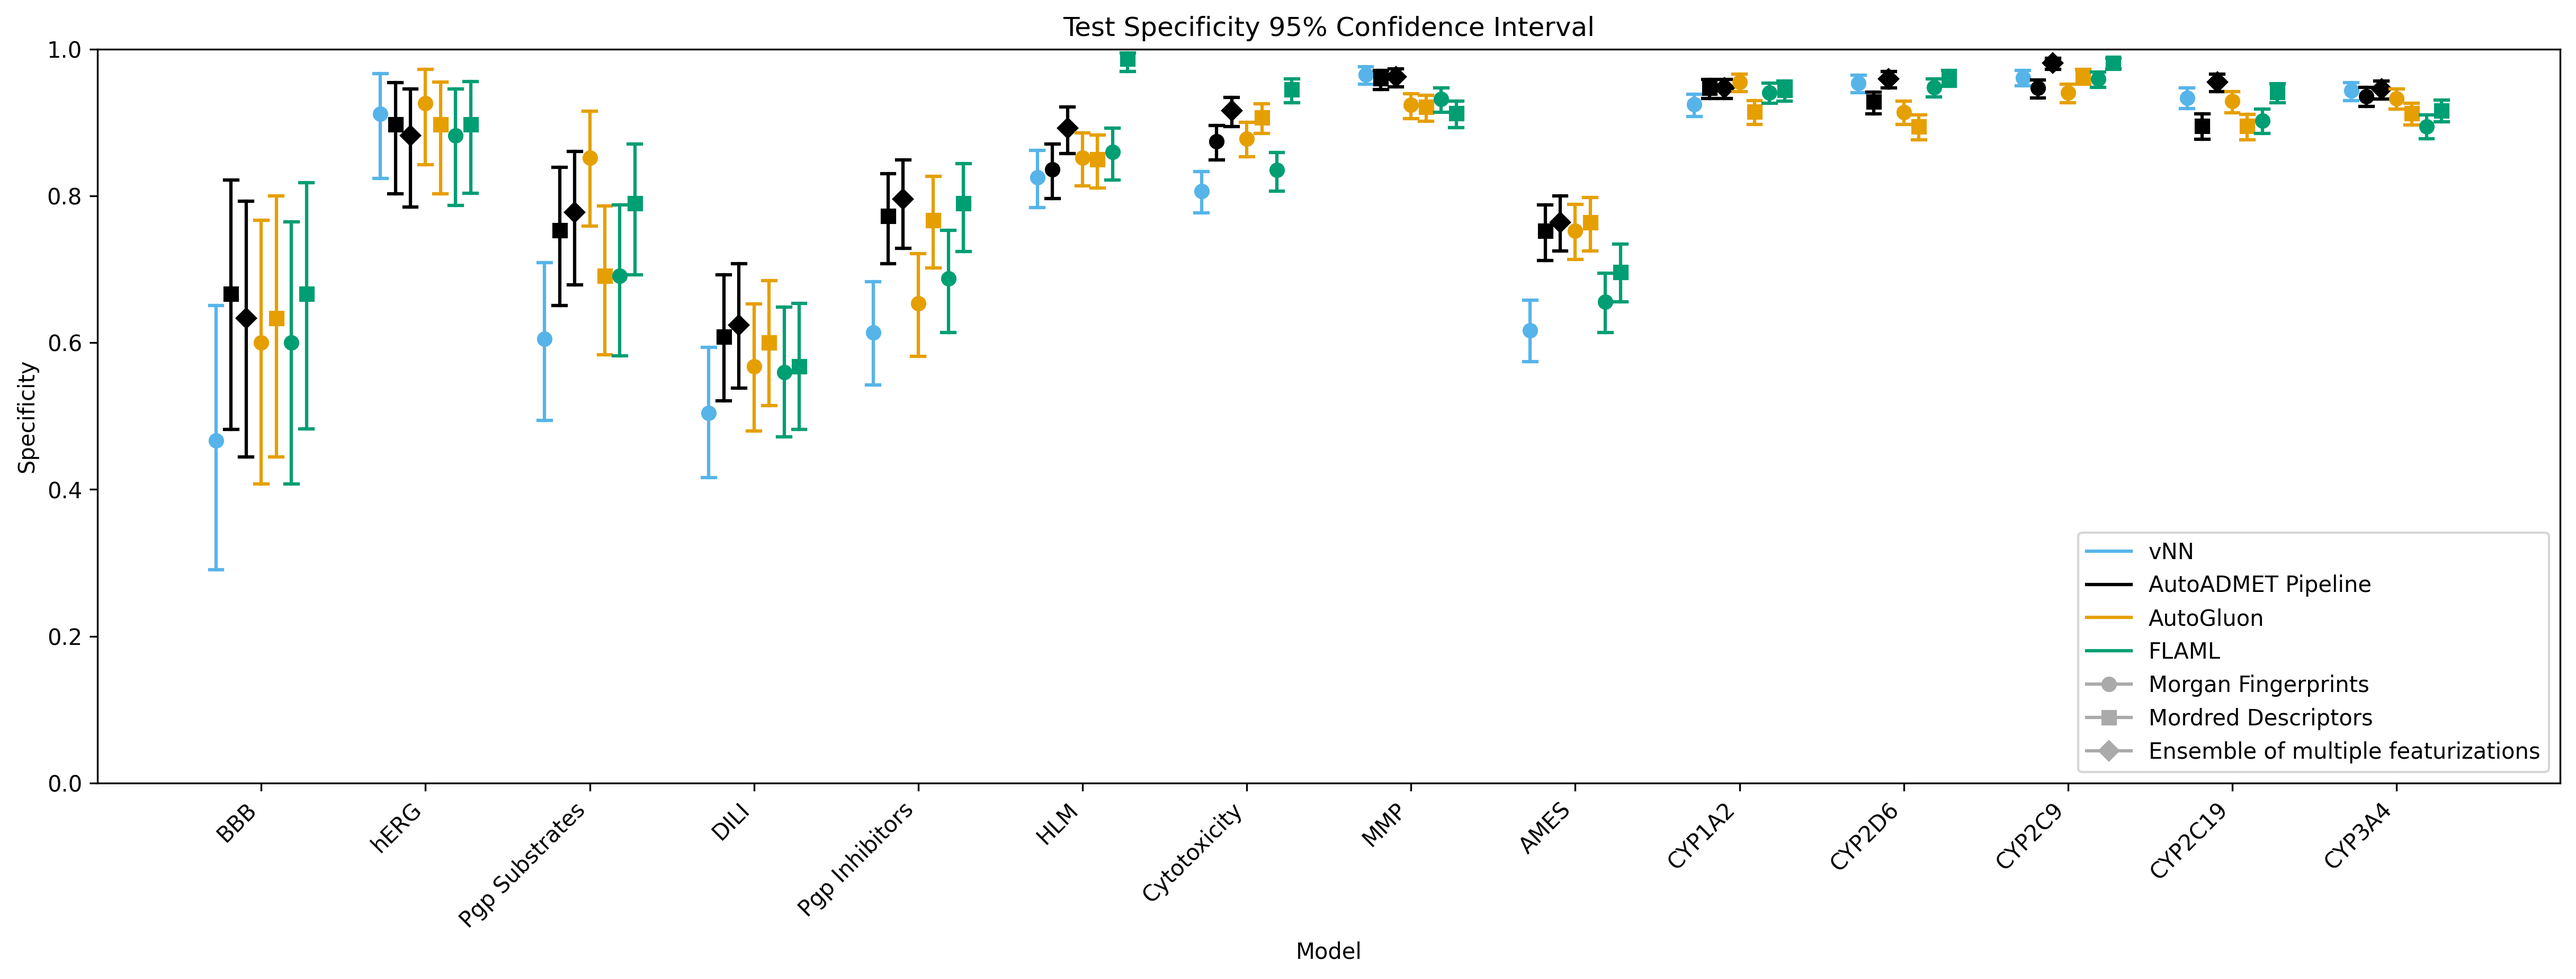
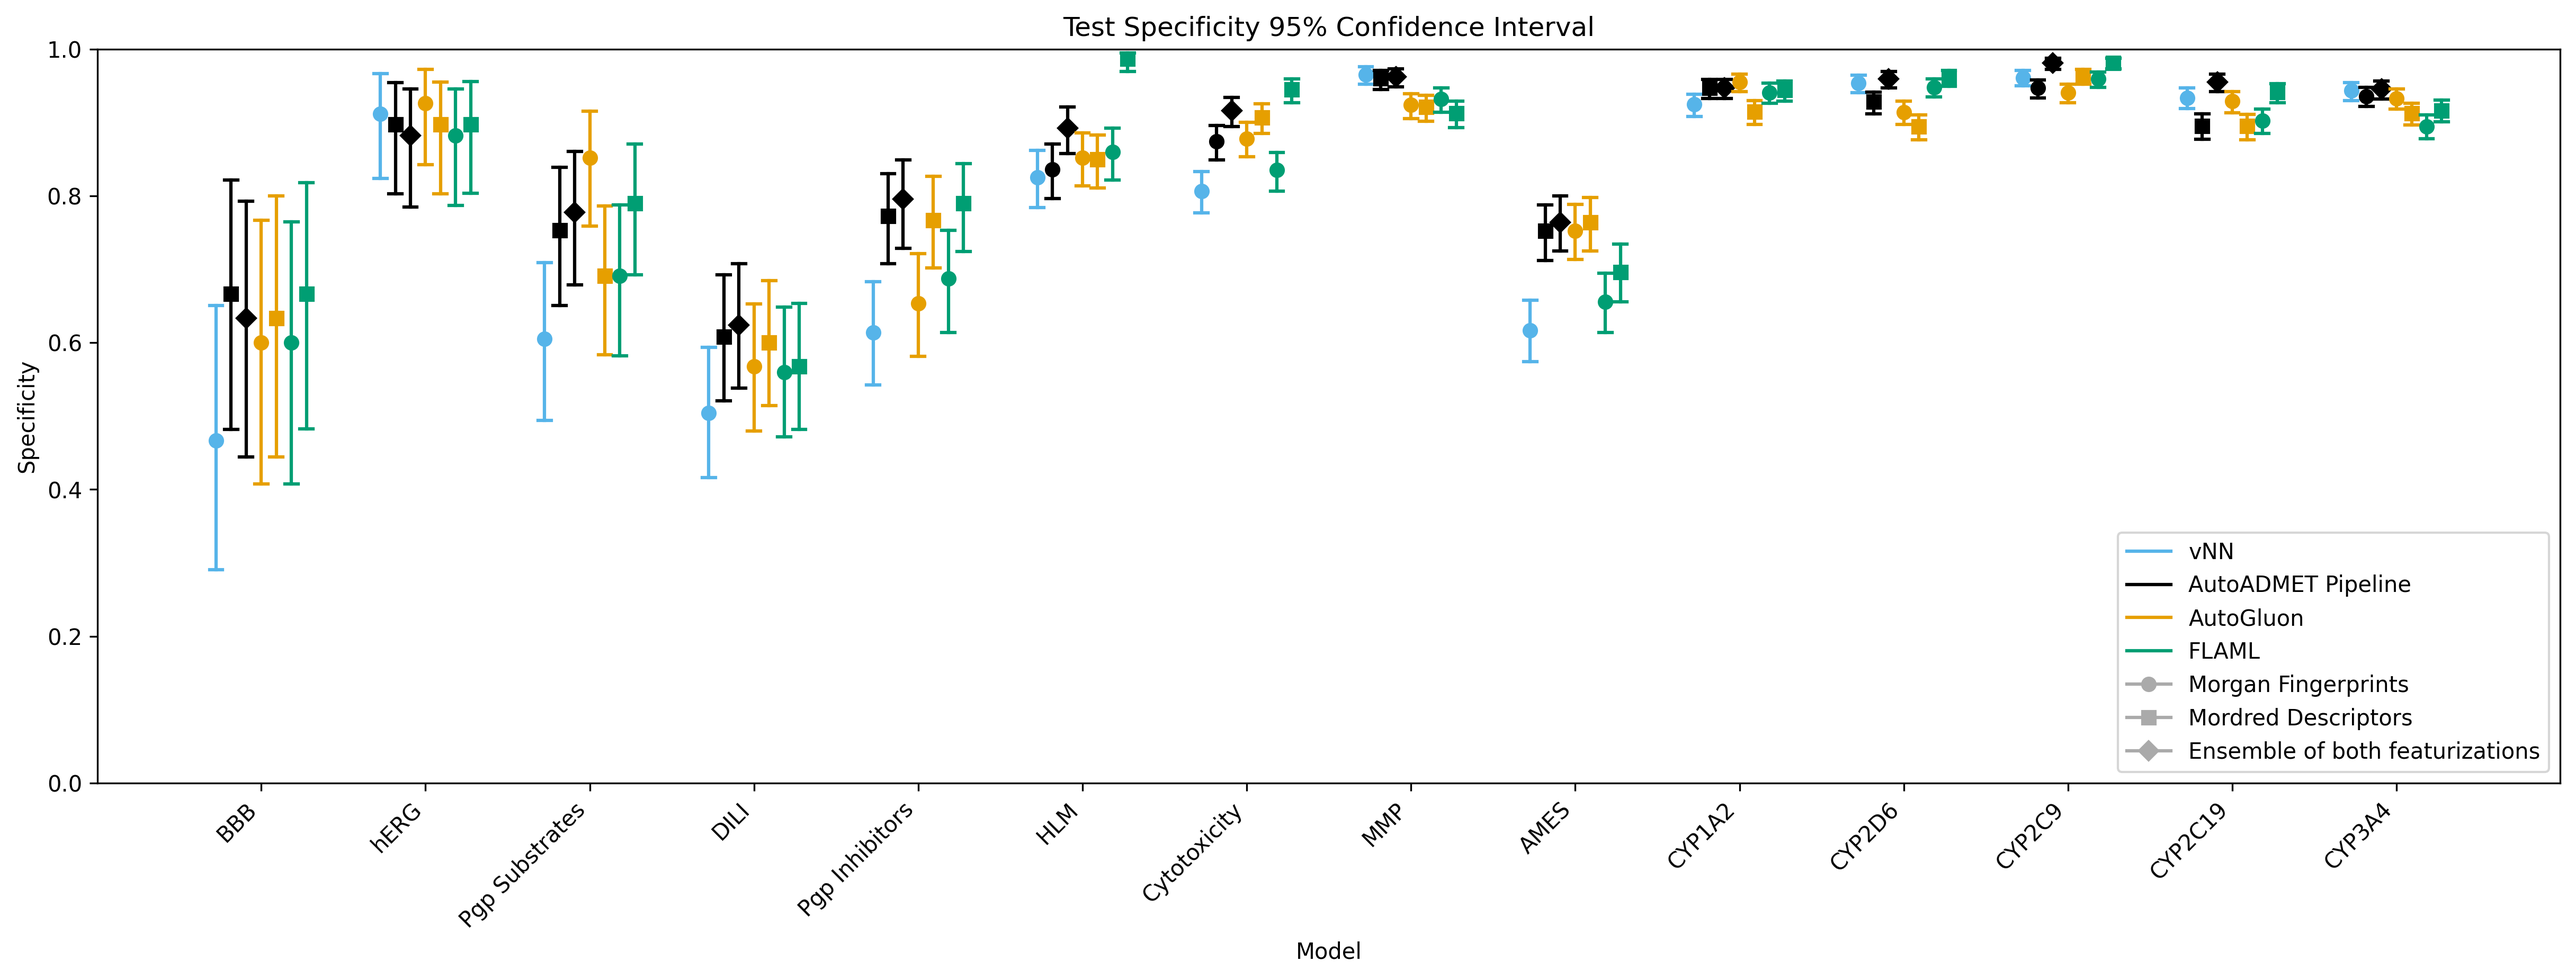
multiple -> both

Changed region(s): [[0.8125, 0.5549, 0.9375, 0.7707]]

diff --git a/visualization/plot_performance.py b/visualization/plot_performance.py
@@ -274,7 +274,7 @@ def plot_test_performance(
                 (Line2D([0], [0], color="#AAAAAA", marker="s"), "Mordred Descriptors"),
                 (
                     Line2D([0], [0], color="#AAAAAA", marker="D"),
-                    "Ensemble of multiple featurizations",
+                    "Ensemble of both featurizations",
                 ),
             ]
         else:
